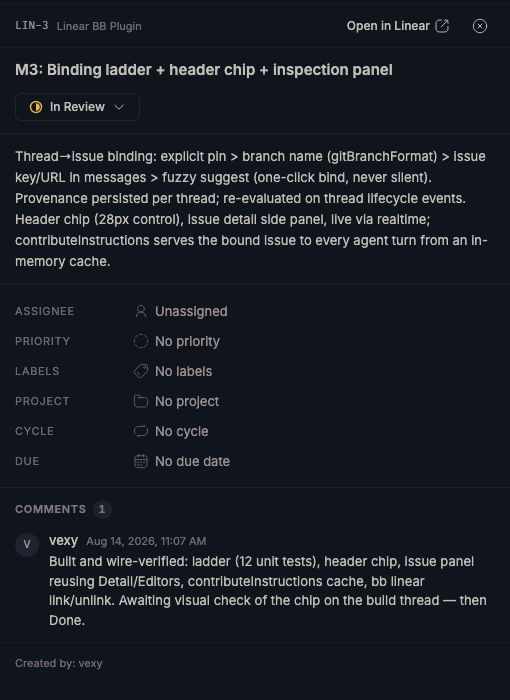
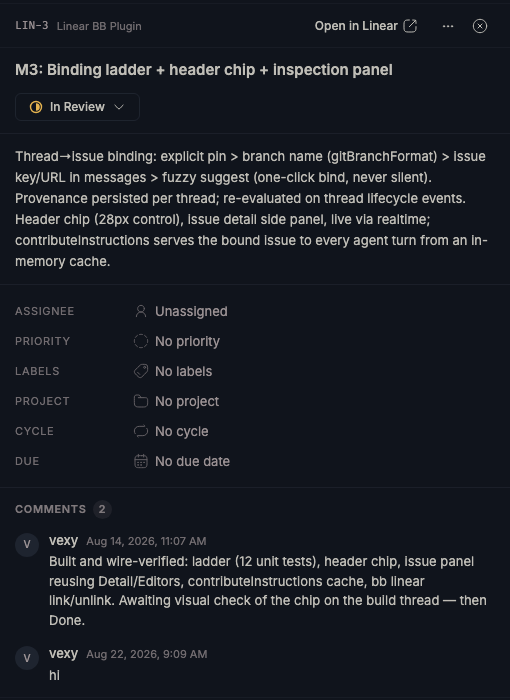
Polish pass 3: one collapse rule, and a README that knows about it
Adversarial re-read of the two polish commits caught the interaction
their features created: the keyboard list flattened every group while
the renderer folded Done by default, so j/k walked the selection
through twenty invisible rows and aria-activedescendant pointed at ids
that were not in the DOM. The collapse rule now lives in one exported
helper used by the renderer, the keyboard list, and the
activedescendant guard — verified live with thirty j presses landing
on a row that exists and is visible.

README screenshots retaken with the current chrome (half-disc icon,
detail ··· menu, header +) and the create dialog documented.

Changed region(s): [[0.0294, 0.93, 0.4118, 0.99], [0.6176, 0.03, 0.8824, 0.06]]

diff --git a/app/Panel.tsx b/app/Panel.tsx
@@ -8,6 +8,7 @@ import {
   chrome,
   hasActiveFilters,
   hydrateSort,
+  isGroupCollapsed,
   loadsForSegment,
   usePanelChrome,
 } from "../src/panel-chrome.js";
@@ -115,10 +116,15 @@ export function LinearPanel({ subPath }: { subPath: string }) {
       panel.status === "ready" &&
       panel.value.state.kind === "rows"
     ) {
-      return panel.value.state.groups.flatMap((group) => group.rows);
+      // Folded groups contribute nothing: j/k walking the selection through
+      // twenty invisible Done rows is a list that goes dark mid-keystroke.
+      const searching = state.search.trim() !== "";
+      return panel.value.state.groups.flatMap((group) =>
+        isGroupCollapsed(group, state.collapsed, searching) ? [] : group.rows,
+      );
     }
     return [];
-  }, [panel, state.segment, working]);
+  }, [panel, state.segment, working, state.collapsed, state.search]);
 
   const open = useCallback(
     (id: string) => {
@@ -502,7 +508,16 @@ function GroupedRows({
           role="listbox"
           tabIndex={0}
           aria-label="Linear issues"
-          aria-activedescendant={selected === null ? undefined : `bbl-row-${selected}`}
+          aria-activedescendant={
+            selected !== null &&
+            state.groups.some(
+              (group) =>
+                !isGroupCollapsed(group, collapsed, searching) &&
+                group.rows.some((row) => row.id === selected),
+            )
+              ? `bbl-row-${selected}`
+              : undefined
+          }
           onScroll={onScroll}
           /*
             The cap is a reading measure, not a layout preference. Past about
@@ -522,12 +537,7 @@ function GroupedRows({
               tells the truth. While a search is active every group opens —
               a hit hidden under a folded header reads as a miss.
             */
-            const startsCollapsed =
-              !searching &&
-              (group.tone === "completed" ||
-                group.tone === "canceled" ||
-                group.tone === "duplicate");
-            const isCollapsed = collapsed.includes(group.key) !== startsCollapsed;
+            const isCollapsed = isGroupCollapsed(group, collapsed, searching);
             // A collapsed group renders no rows, so it spends none of the
             // window — otherwise collapsing a group would shorten the list you
             // can reach, which is the opposite of what collapsing is for.

diff --git a/src/panel-chrome.ts b/src/panel-chrome.ts
@@ -207,6 +207,27 @@ export const chrome = {
   },
 };
 
+/**
+ * The one collapse rule, shared by the renderer and the keyboard list.
+ *
+ * Finished work starts folded; the stored list records toggles away from
+ * that default; a live search opens everything. Two copies of this rule
+ * already diverged once — the renderer folded Done while j/k kept walking
+ * the selection through its invisible rows.
+ */
+export function isGroupCollapsed(
+  group: { readonly key: string; readonly tone: string },
+  collapsed: readonly string[],
+  searching: boolean,
+): boolean {
+  const startsCollapsed =
+    !searching &&
+    (group.tone === "completed" ||
+      group.tone === "canceled" ||
+      group.tone === "duplicate");
+  return collapsed.includes(group.key) !== startsCollapsed;
+}
+
 /** Whether anything is narrowing the list. Drives the Clear filters control
  *  and the empty state's choice of sentence. */
 export function hasActiveFilters(value: ChromeState): boolean {

diff --git a/README.md b/README.md
@@ -11,9 +11,14 @@ live, in the header, the side panel, and the agent's own context.
 ## What it does
 
 **A client.** The left nav panel is a list-first Linear browser at sidebar
-width: your teams' boards as collapsible state groups, filters and facets,
-full-text search, projects, cycles, and your Linear inbox with a badge — all
-rendered from a local mirror, so every read is instant and free.
+width: your teams' boards as collapsible state groups (finished work starts
+folded), filters and facets, grouping by state, assignee, project or cycle,
+full-text search, keyboard navigation, and your Linear inbox with a badge —
+all rendered from a local mirror, so every read is instant and free. Capture
+is two fields away: a **+** in the header files an issue by title and lands
+in its detail pane, where everything else has a real editor.
+
+<img src="./assets/readme/create.png" alt="The create dialog: title, optional description, team" width="480">
 
 **A seam.** Every thread resolves *which issue it is working on* through a
 deterministic ladder — an explicit link, the branch name Linear generated, an
